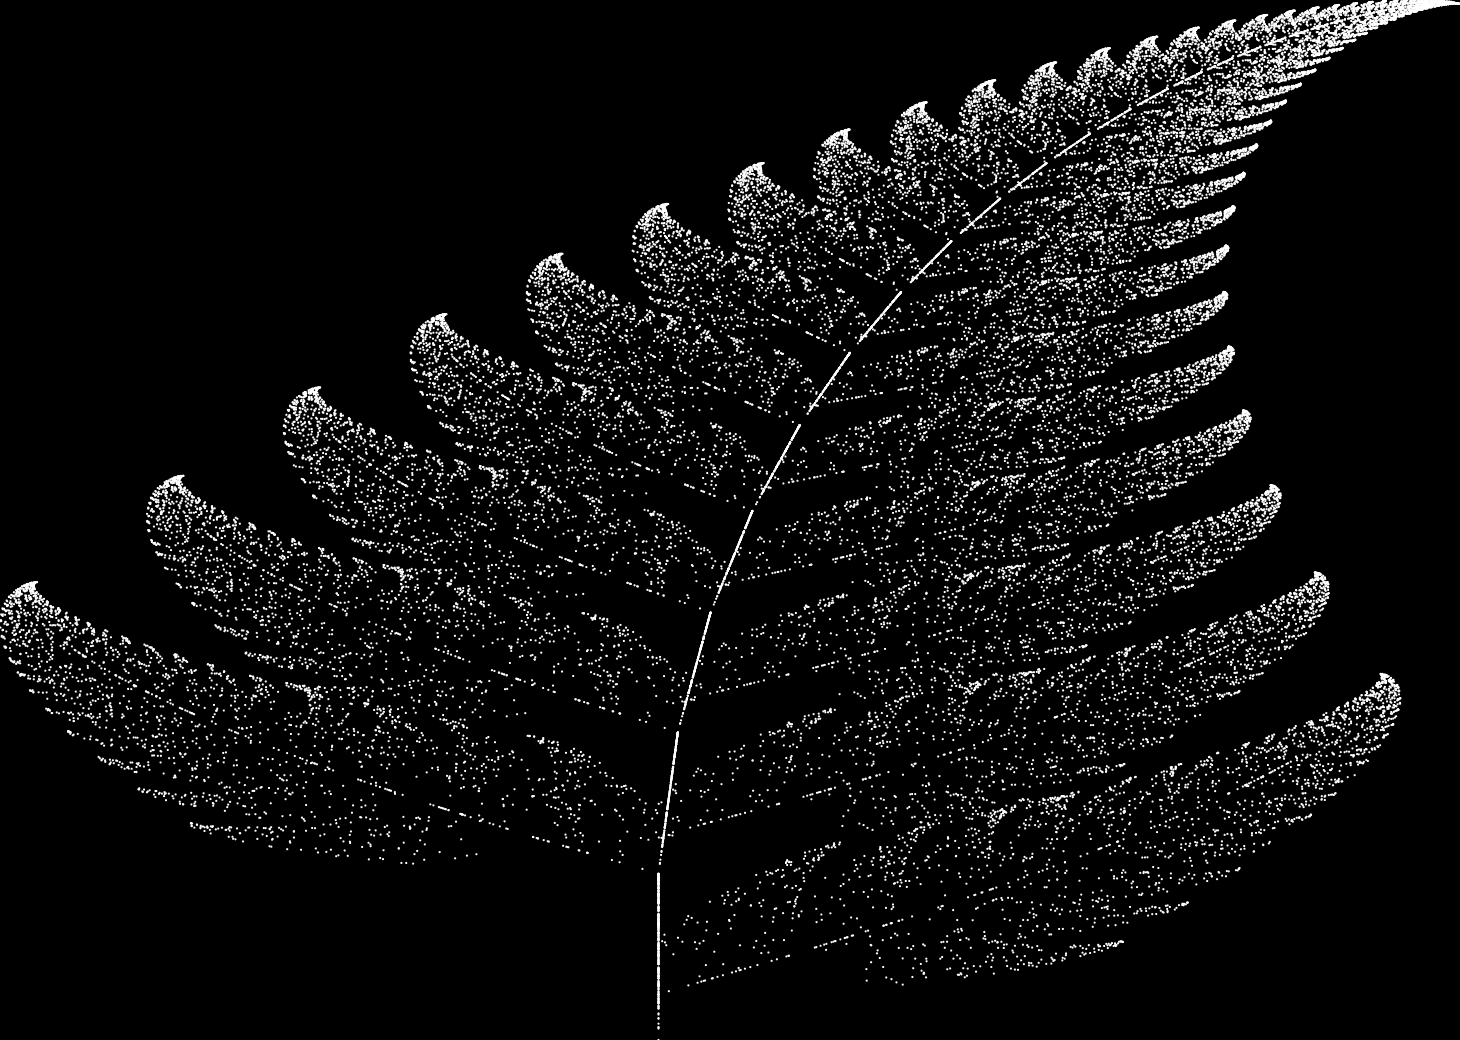
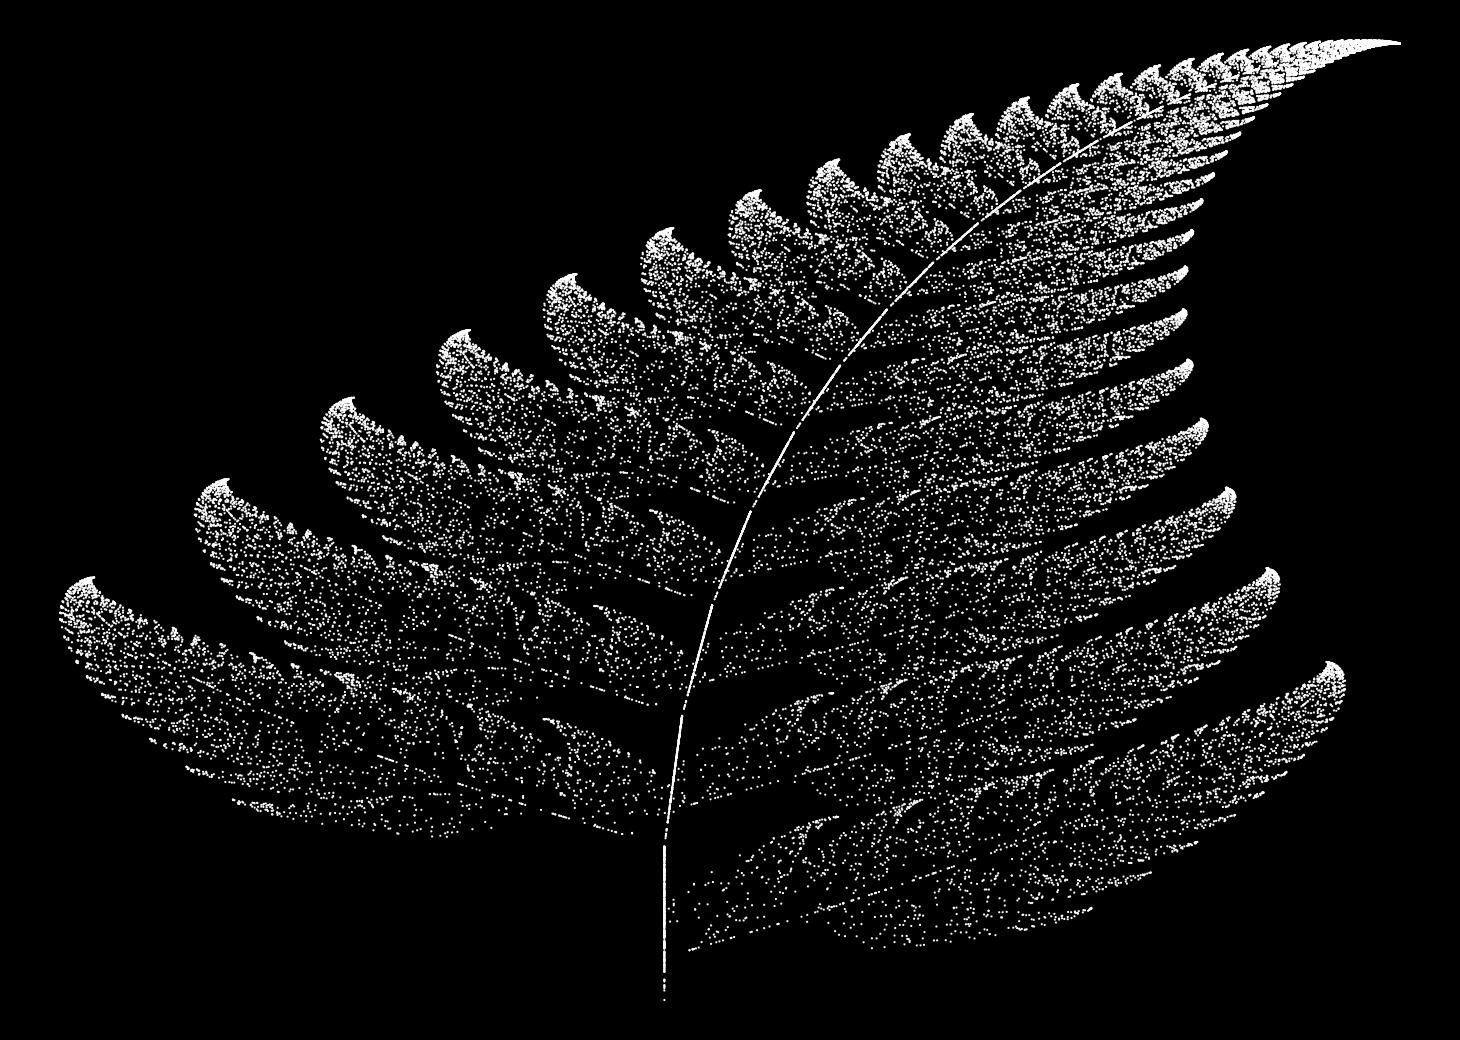
feat: fern 3 params done

Changed region(s): [[0.0, 0.0, 1.0, 0.9538]]

diff --git a/client/src/Components/05-02-Fern/index.js b/client/src/Components/05-02-Fern/index.js
@@ -5,7 +5,11 @@ import canvasToImage from 'canvas-to-image';
 import * as ApiService from '../../ApiService';
 
 function Fern({ hideFern, setHideFern, post, setPost }) {
-  const [iterations, setIterations] = useState(5000);
+  const [iterations, setIterations] = useState(50000);
+  const [param1, setParam1] = useState(0);
+  const [param2, setParam2] = useState(0.04);
+  const [param3, setParam3] = useState(1.6);
+  const [param4, setParam4] = useState(0.44);
   const canvasRef = useRef(null);
 
   const setup = (p5, canvasParentRef) => {
@@ -24,20 +28,20 @@ function Fern({ hideFern, setHideFern, post, setPost }) {
       let r = p5.random(1);
       if (r < 0.01) {
         //1
-        nextX = 0;
+        nextX = param1 * x + 0;
         nextY = 0.16 * y;
       } else if (r < 0.86) {
         //2
-        nextX = 0.85 * x + 0.04 * y;
+        nextX = 0.85 * x + param2 * y;
         nextY = -0.04 * x + 0.85 * y + 1.6;
       } else if (r < 0.93) {
         //3
         nextX = 0.2 * x + -0.26 * y;
-        nextY = 0.23 * x + 0.22 * y + 1.6;
+        nextY = 0.23 * x + 0.22 * y + param3;
       } else {
         //4
-        nextX = -0.15 * x + 0.28 * y;
-        nextY = 0.26 * x + 0.24 * y + 0.44;
+        nextX = -0.15 * x + 0.28 * y + 0;
+        nextY = 0.26 * x + 0.24 * y + param4;
       }
       x = nextX;
       y = nextY;
@@ -47,8 +51,8 @@ function Fern({ hideFern, setHideFern, post, setPost }) {
     p5.stroke(255);
 
     for (let i = 0; i < iterations; i++) {
-      let px = p5.map(x, -2.182, 2.6558, 30, p5.width - 30);
-      let py = p5.map(y, 0, 9.9983, p5.height - 20, 20);
+      let px = p5.map(x, -2.182, 2.6558, 200, p5.width - 200);
+      let py = p5.map(y, 0, 9.9983, p5.height - 30, 60);
       p5.point(px, py);
       nextPoint();
     }
@@ -69,7 +73,7 @@ function Fern({ hideFern, setHideFern, post, setPost }) {
       <Sketch setup={setup} draw={draw} />
       <form>
         <div className='parameter'>
-          <span>Iterations:</span>
+          <span>Iterations (=nb of points):</span>
           <label>{iterations}</label>
           <input
             type='range'
@@ -85,55 +89,71 @@ function Fern({ hideFern, setHideFern, post, setPost }) {
           ></input>
         </div>
         <div className='parameter'>
-          <span>Right Angle:</span>
-          {/* <label>{rightAngle}°</label> */}
+          <span>Turning stems to leaves:</span>
+          <label>{param1}</label>
           <input
             type='range'
             name='fern'
-            id='angle'
-            min='0'
-            max='90'
-            step='1'
-            // value={rightAngle}
-            onChange={(e) => {
-              // setRightAngle(e.target.value);
-            }}
-          ></input>
-          <br />
-        </div>
-        <div className='parameter'>
-          <span>Left Angle:</span>
-          {/* <label>{rightAngle}°</label> */}
-          <input
-            type='range'
-            name='fern'
-            id='angle'
-            min='0'
-            max='90'
-            step='1'
-            // value={leftAngle}
-            onChange={(e) => {
-              // setLeftAngle(e.target.value);
-            }}
-          ></input>
-          <br />
-        </div>
-        <div className='parameter'>
-          <span>Branch ratio:</span>
-          {/* <label>{ratio}</label> */}
-          <input
-            type='range'
-            name='fern'
-            id='ratio'
-            min='0.5'
-            max='0.79'
+            id='param1'
+            min='-0.5'
+            max='0.5'
             step='0.01'
-            // value={ratio}
+            value={param1}
             onChange={(e) => {
-              // setRatio(e.target.value);
+              setParam1(e.target.value);
             }}
           ></input>
+          <br />
         </div>
+        <div className='parameter'>
+          <span>Changing fern tilt:</span>
+          <label>{param2}</label>
+          <input
+            type='range'
+            name='fern'
+            id='param2'
+            min='-0.1'
+            max='0.1'
+            step='0.005'
+            value={param2}
+            onChange={(e) => {
+              setParam2(e.target.value);
+            }}
+          ></input>
+          <br />
+        </div>
+        {/* <div className='parameter'>
+          <span>Plucking left leaves:</span>
+          <label>{param3}</label>
+          <input
+            type='range'
+            // name='fern'
+            id='param3'
+            min='-3.5'
+            max='3.5'
+            step='0.1'
+            value={param3}
+            onChange={(e) => {
+              setParam3(e.target.value);
+            }}
+          ></input>
+        </div> */}
+        {/* <div className='parameter'>
+          <span>Plucking right leaves:</span>
+          <label>{param4}</label>
+          <input
+            type='range'
+            name='fern'
+            id='param4'
+            min='-0.5'
+            max='0.5'
+            step='0.1'
+            value={param4}
+            onChange={(e) => {
+              setParam4(e.target.value);
+            }}
+          ></input>
+        </div> */}
       </form>
       <div className='buttons'>
         <button onClick={postCanvasAsImage}>Submit</button>

diff --git a/client/src/Components/04-Creation/index.js b/client/src/Components/04-Creation/index.js
@@ -10,7 +10,7 @@ function Creation({ setHideTree, setHideFern }) {
       <div className='fractals'>
         <div className='creation-tree' id='sym-tree'>
           <img src={symTreePic} alt='Symetric tree'></img>
-          <button onClick={() => setHideTree(false)}>Symetric tree</button>
+          <button onClick={() => setHideTree(false)}>Tree</button>
         </div>
         <div className='creation-tree' id='fern'>
           <img src={fern} alt='Symetric tree'></img>

diff --git a/client/src/Components/05-02-Fern/style.css b/client/src/Components/05-02-Fern/style.css
@@ -26,12 +26,12 @@
 }
 
 .fern span {
-  width: 110px;
+  width: 200px;
 }
 
 .fern label {
   display: inline-block;
-  width: 30px;
+  width: 40px;
   font-weight: bold;
 }
 

diff --git a/client/src/Components/04-Creation/style.css b/client/src/Components/04-Creation/style.css
@@ -35,6 +35,7 @@
 img {
   max-width: 100%;
   max-height: 100%;
+  border-radius: 20px;
 }
 
 button {
